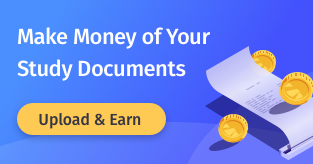
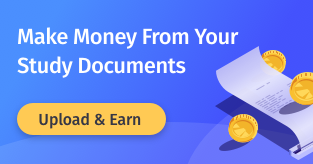
promotions images changed, Admin User Status

diff --git a/Cloudents.Admin2/ClientApp/components/userMainView/userMainService.js b/Cloudents.Admin2/ClientApp/components/userMainView/userMainService.js
@@ -18,7 +18,7 @@ function UserInfo(objInit) {
     this.fraudScore = {value: objInit.fraudScore ||  0, label: 'Fraud Score' };
     this.referredCount = {value: objInit.referredCount ||  0, label: 'People Referred' };
     this.balance = {value: objInit.balance ||  0, label: 'Balance' };
-    this.status = {value: objInit.status || 'active', label: 'User Status' };
+    this.status = {value: objInit.isActive , label: 'User Status' };
 }
 
 function createUserInfoItem(data) {

diff --git a/Cloudents.Admin2/ClientApp/components/userMainView/userMainView.vue b/Cloudents.Admin2/ClientApp/components/userMainView/userMainView.vue
@@ -153,7 +153,7 @@
             },
             userStatusActive() {
                 if (this.userData && this.userData.userInfo) {
-                    return this.userData.userInfo.status.value === 'active'
+                    return this.userData.userInfo.status.value
                 }
             },
 
